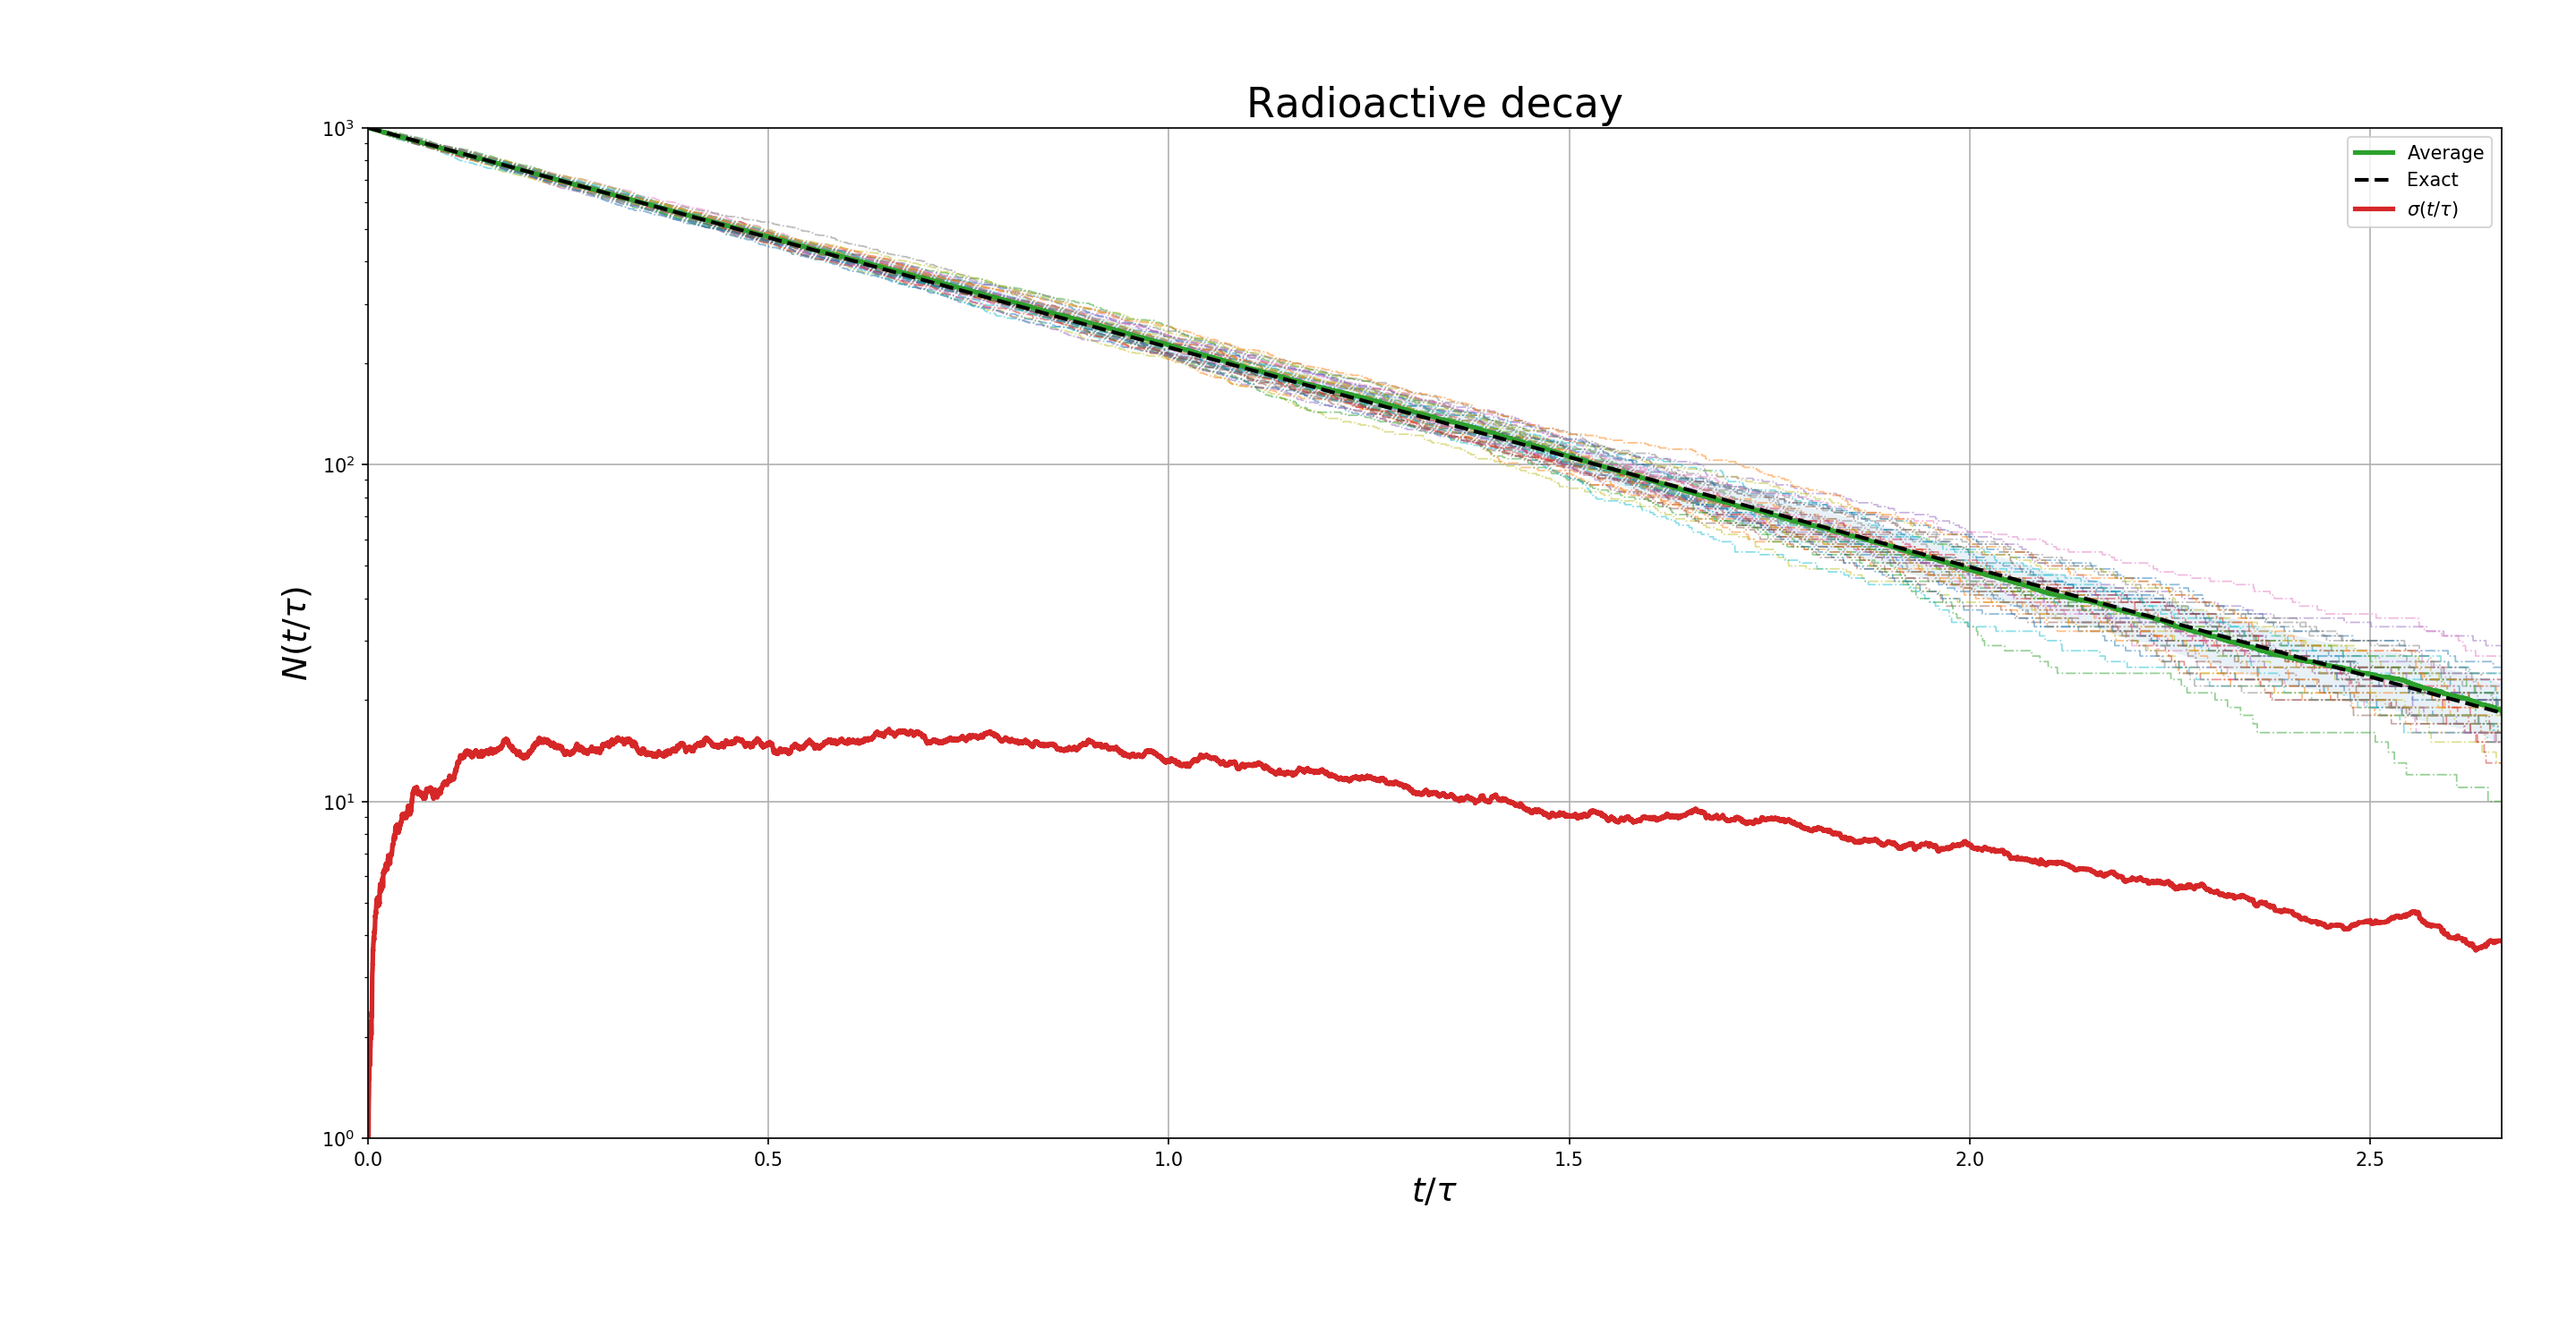
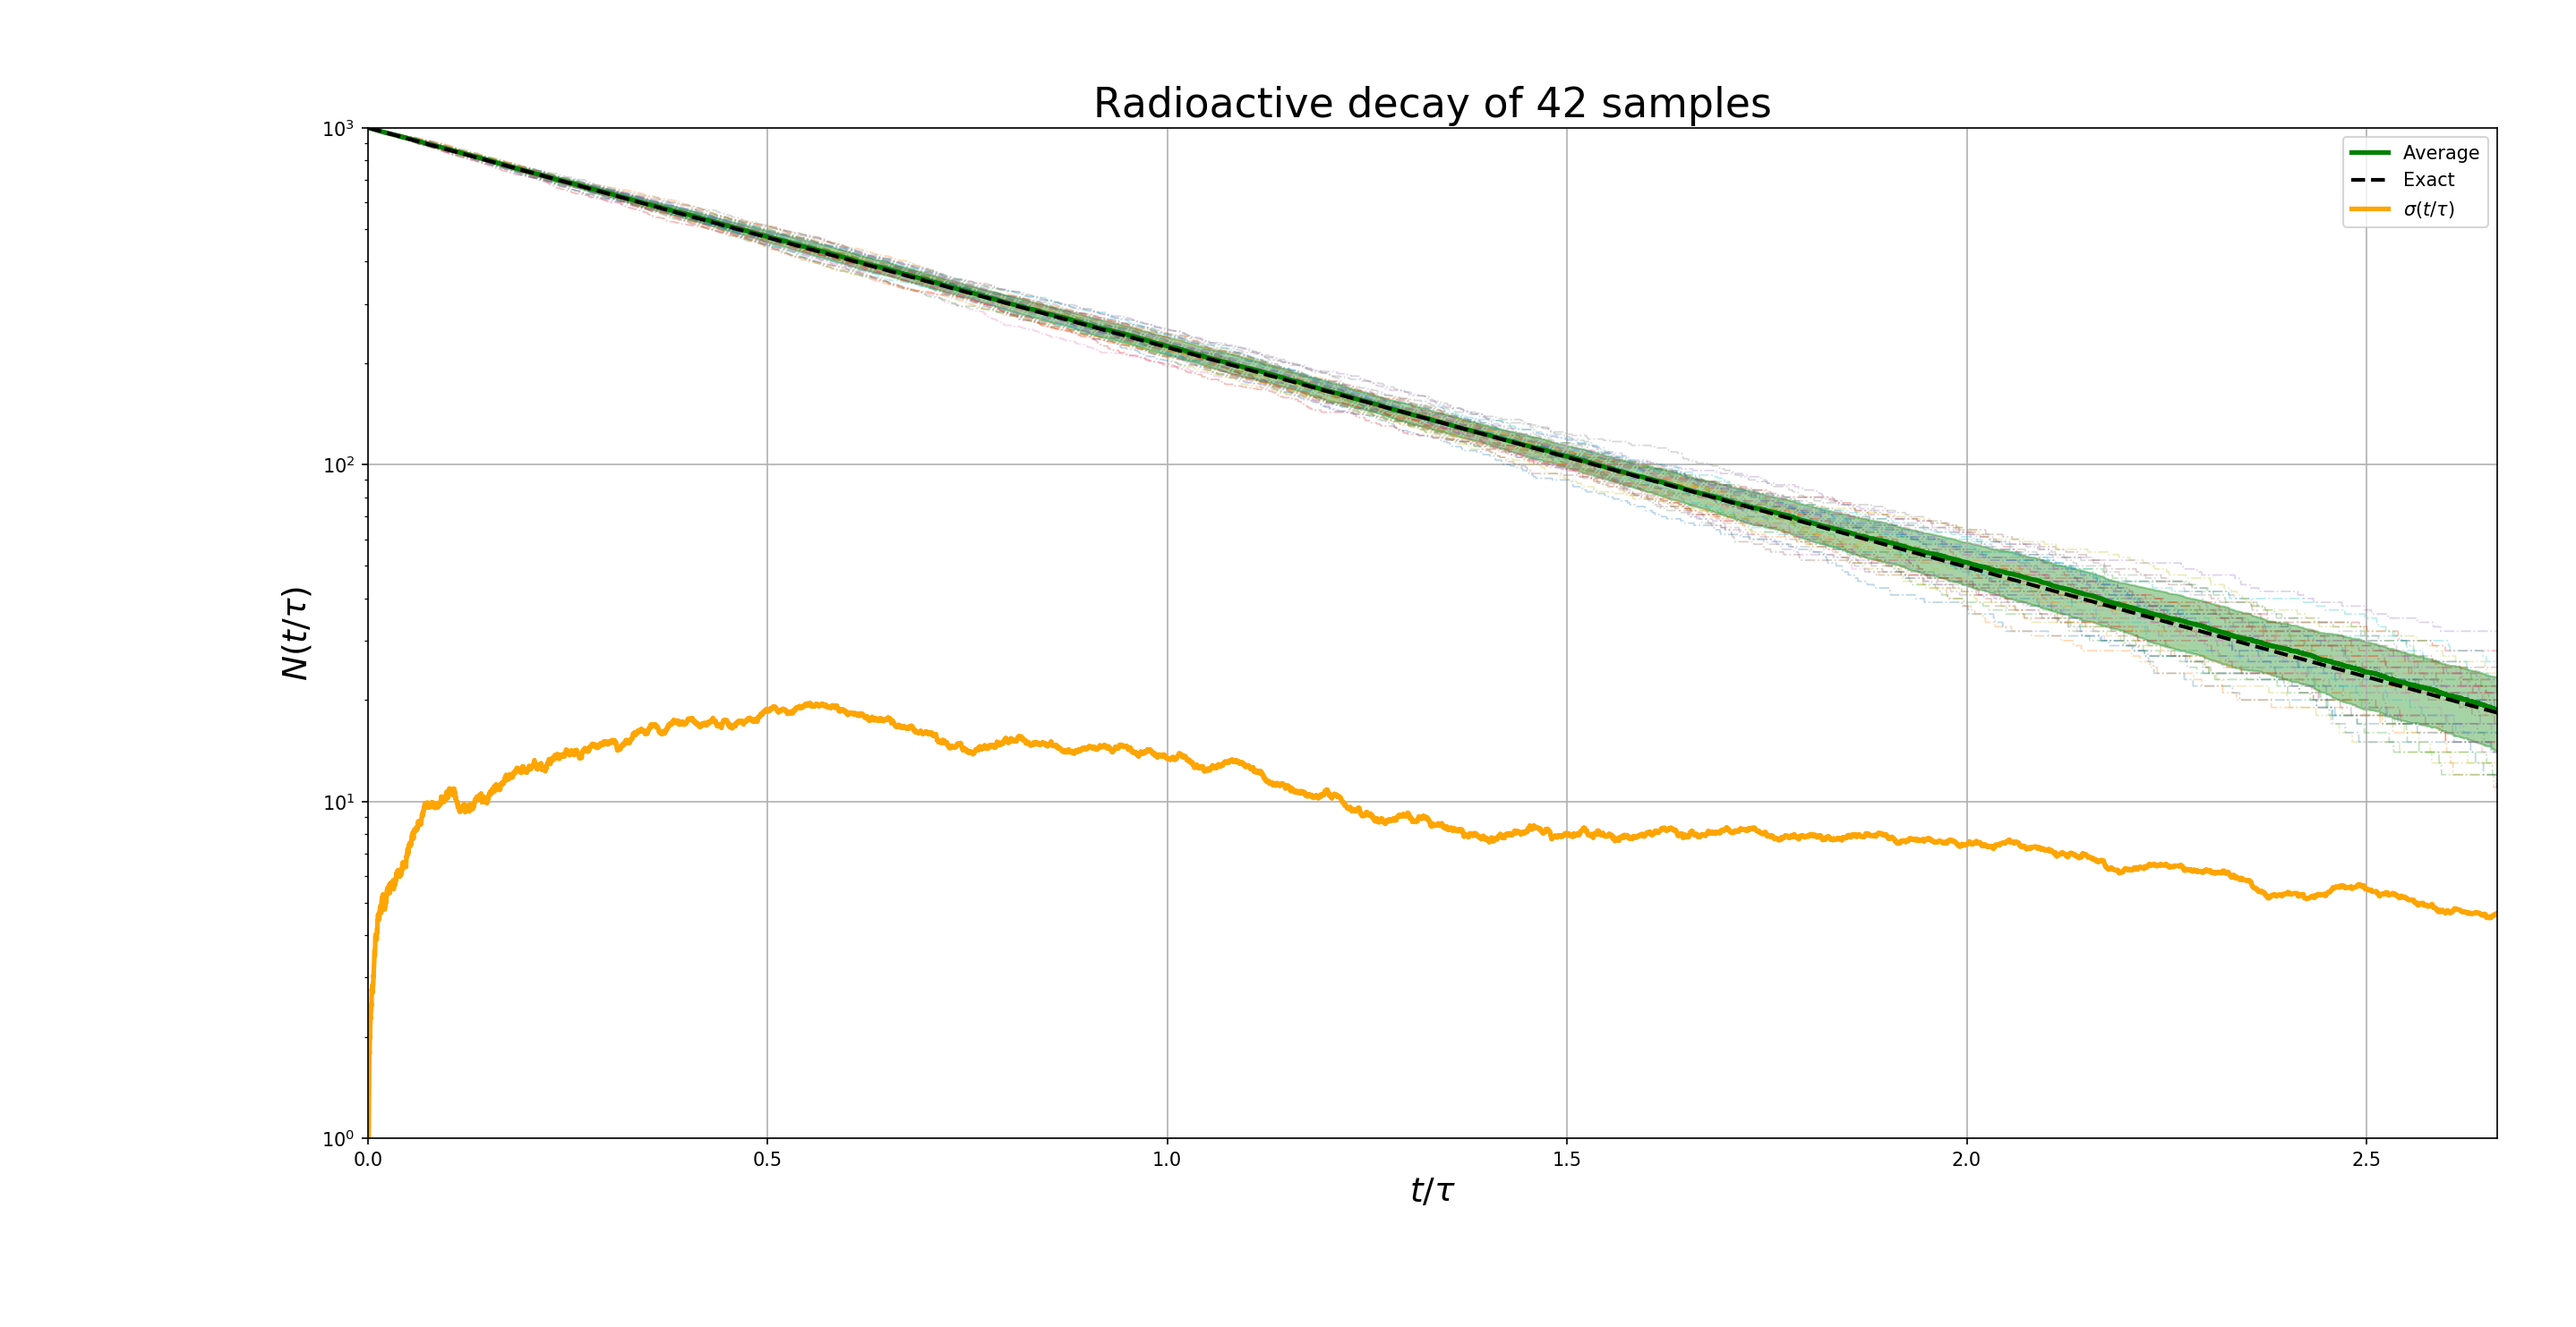
[P6 - Eric] item 2 melhorado

diff --git a/projeto6/2_decaimento.py b/projeto6/2_decaimento.py
@@ -28,6 +28,7 @@ if bla.returncode != 0:
     exit(1)
 
 # run code
+print("")
 print("N0 = {}".format(N0))
 print("tau = {}".format(tau))
 print("dt = {}".format(dt))
@@ -53,7 +54,7 @@ Y = []
 
 for data in glob.glob("out_*"):
     x, y = np.loadtxt(data, unpack = True)
-    ax.plot(x, y, '-.', linewidth = 0.85, alpha = 0.5)
+    ax.plot(x, y, '-.', linewidth = 0.85, alpha = 0.3)
     X.append(x)
     Y.append(y)
 
@@ -78,26 +79,27 @@ Y_avg = np.mean(YY, axis = 0)
 Y_std = np.std(YY, axis = 0)
 
 # plot average
-ax.plot(XX, Y_avg, linewidth = 2.5, label = "Average")
-ax.fill_between(XX, Y_avg - Y_std, Y_avg + Y_std, alpha = 0.1)
+ax.plot(XX, Y_avg, color = 'green', linewidth = 2.5, label = "Average")
+ax.fill_between(XX, Y_avg - Y_std, Y_avg + Y_std, color = 'green', alpha = 0.35)
 
 # plot the exact solution
 y = np.exp(-XX / tau) * N0
 ax.plot(XX, y, '--', color = 'black', linewidth = 2.0, label = "Exact")
 
 # plot sigma
-ax.plot(XX, Y_std, linewidth = 2.5, label = "$\sigma(t /\\tau)$")
+ax.plot(XX, Y_std, linewidth = 2.5, color = 'orange', label = "$\sigma(t /\\tau)$")
 
 ax.grid()
 ax.legend()
 
-plt.title("Radioactive decay", fontsize = 22)
+plt.title("Radioactive decay of {} samples".format(Ntimes), fontsize = 22)
 plt.xlabel("$t / \\tau$", fontsize = 18)
 plt.ylabel("$N(t / \\tau)$", fontsize = 18)
 
 plt.xlim(0, 4 * tau)
 
 fig.tight_layout()
+#plt.show()
 fig.set_size_inches(19.18, 9.89)
 
 plt.savefig("2_decay.png",
